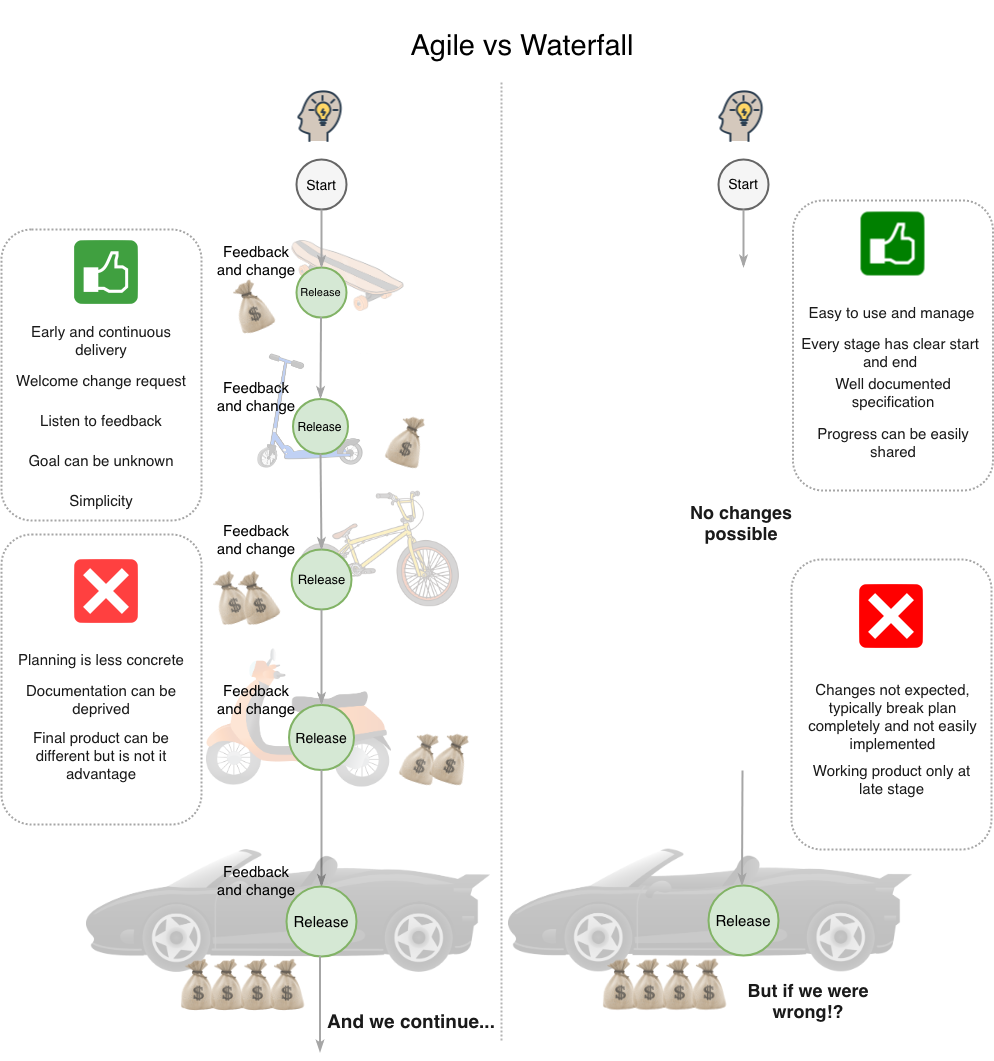
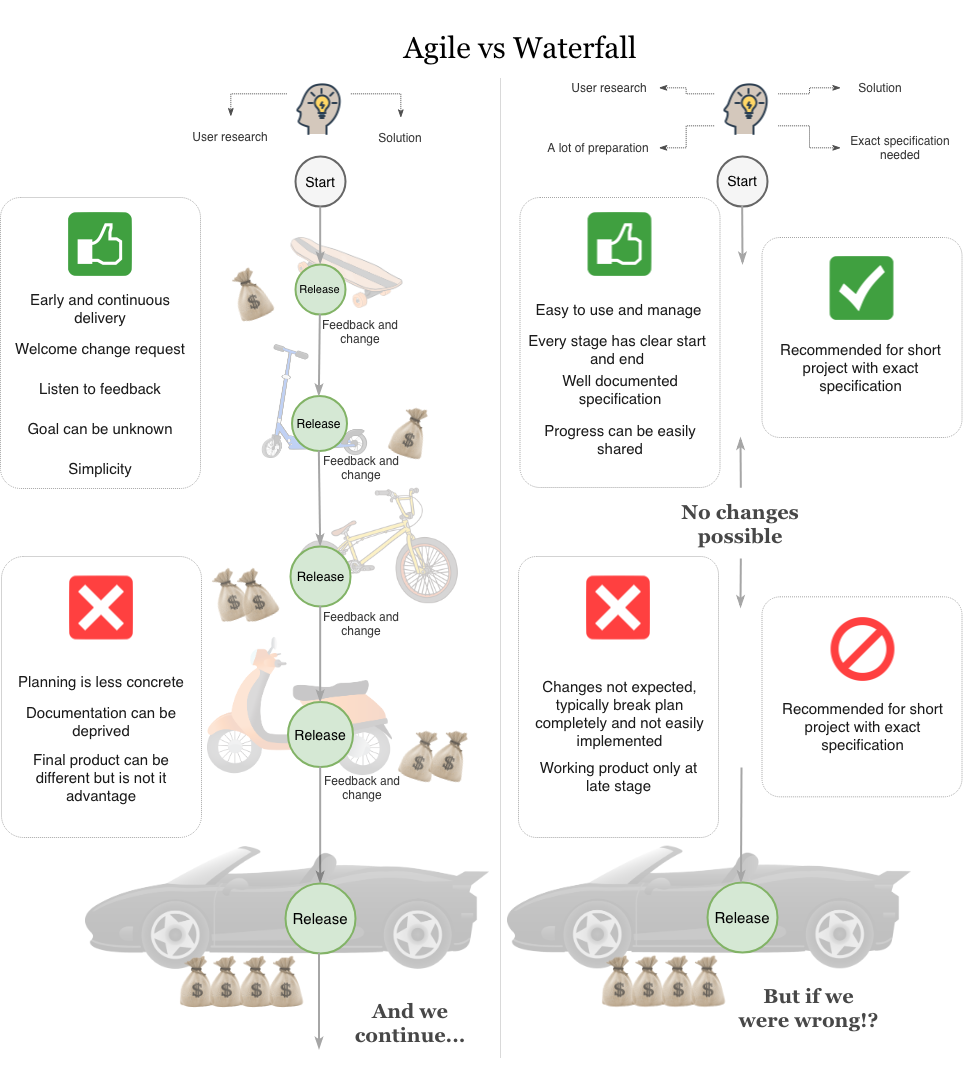
Update

diff --git a/README.md b/README.md
@@ -16,22 +16,21 @@ into distinct stages to improve management and final product.
 
 1. Requirements analysis encompasses those tasks that go into determining the needs or conditions
 to meet for a product.
-1. ...
+1. Design phase starts by turning the software specifications into architecture solution.
+1. Construction stage develops the software by generating all the actual code.
+1. In testing stage, we test for defects and deficiencies. Fix those issues until the product meets the original specifications.
 
 ## Software Development Methodologies
 
-Software development methodology is a framework that is used to structure, plan, and control the process of developing software application.
+Software development methodology is a framework that is used to structure, plan, and control the process of developing software application. The two basic, most popular methodologies are:
+- Waterfall is a linear approach to software development.
+- Agile is an iterative, team-based approach to development.
 
 <p align="center">
     <img src="./imgs/software-development-methodologies.png">
 </p>
 
-waterfall
-iterative
-spiral
-v-model
-agile
-https://www.pinterest.com/pin/355362226828550368/
+Also, there are several more models, e.g. iterative, v-shaped, big bang, spiral and etc.
 
 https://stackify.com/what-is-sdlc/
 
